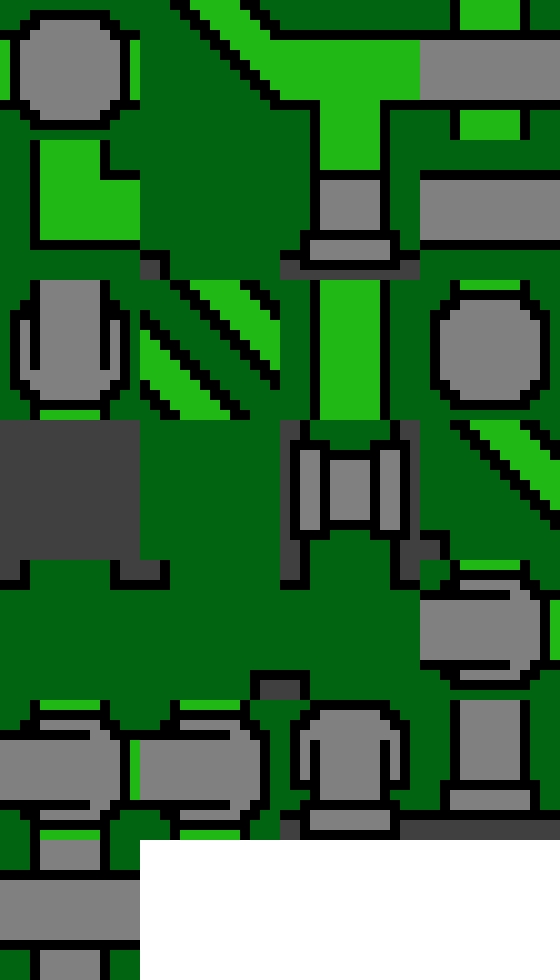
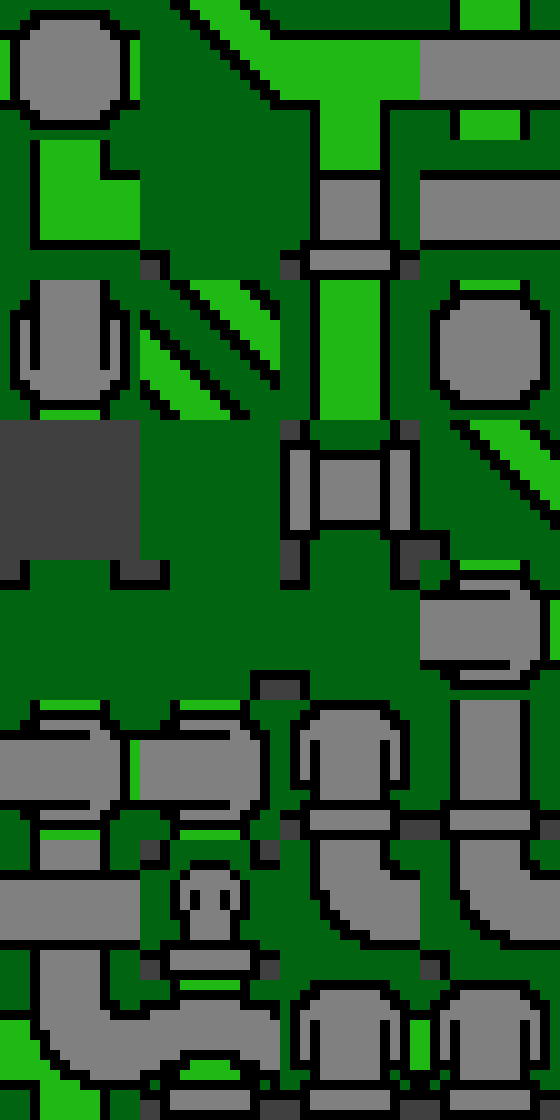
more patterns

diff --git a/cpu/rules.js b/cpu/rules.js
@@ -21,7 +21,7 @@ export default [
 	[[0, 1, 0], [0, 0, 0], [0, 0, 0], [0, 0, 0]],
 	[[3, 3, 3], [3, 3, 3], [3, 3, 3], [3, 3, 3]],
 	[[0, 0, 0], [0, 0, 0], [0, 0, 0], [0, 0, 0]],
-	null, //[[3, 0, 3], [3, 3, 3], [3, 0, 3], [3, 3, 3]],
+	[[3, 0, 3], [3, 3, 3], [3, 0, 3], [3, 3, 3]],
 	[[0, 1, 0], [0, 1, 0], [0, 0, 3], [3, 0, 0]],
 	[[3, 0, 3], [3, 0, 0], [0, 0, 0], [0, 0, 3]],
 	[[3, 0, 0], [0, 0, 3], [3, 0, 0], [0, 0, 3]],
@@ -29,7 +29,14 @@ export default [
 	[[0, 1, 0], [0, 1, 0], [0, 0, 0], [0, 2, 0]],
 	[[0, 1, 0], [0, 1, 0], [0, 1, 0], [0, 2, 0]],
 	[[0, 1, 0], [0, 0, 0], [0, 1, 0], [0, 2, 0]],
-	null, //[[0, 1, 0], [0, 0, 3], [3, 3, 3], [3, 0, 0]],
+	[[0, 1, 0], [0, 0, 3], [3, 3, 3], [3, 0, 0]],
 	[[0, 2, 0], [0, 0, 3], [3, 3, 3], [3, 0, 0]],
 	[[0, 2, 0], [0, 2, 0], [0, 2, 0], [0, 2, 0]],
+	[[3, 0, 3], [3, 0, 3], [3, 3, 3], [3, 0, 3]],
+	[[0, 2, 0], [0, 2, 0], [0, 0, 0], [0, 0, 0]],
+	[[0, 2, 0], [0, 2, 0], [0, 0, 3], [3, 0, 0]],
+	[[0, 2, 0], [0, 2, 0], [0, 1, 0], [0, 1, 0]],
+	[[0, 1, 0], [0, 2, 3], [3, 3, 3], [3, 2, 0]],
+	[[0, 0, 0], [0, 1, 3], [3, 3, 3], [3, 0, 0]],
+	[[0, 0, 0], [0, 0, 3], [3, 3, 3], [3, 1, 0]],
 ]

diff --git a/cpu/index.js b/cpu/index.js
@@ -68,12 +68,16 @@ const initial = {
 		[3, 0, 0],
 		[3, 3, 3],
 		[3, 0, 3],
+		[0, 2, 3],
+		[3, 2, 0],
+		[0, 1, 3],
+		[3, 1, 0],
 	],
 }
 
 const backtrack = {
 	increase: 1,
-	decrease: 0.5,
+	decrease: 0.3,
 }
 
 export default {
